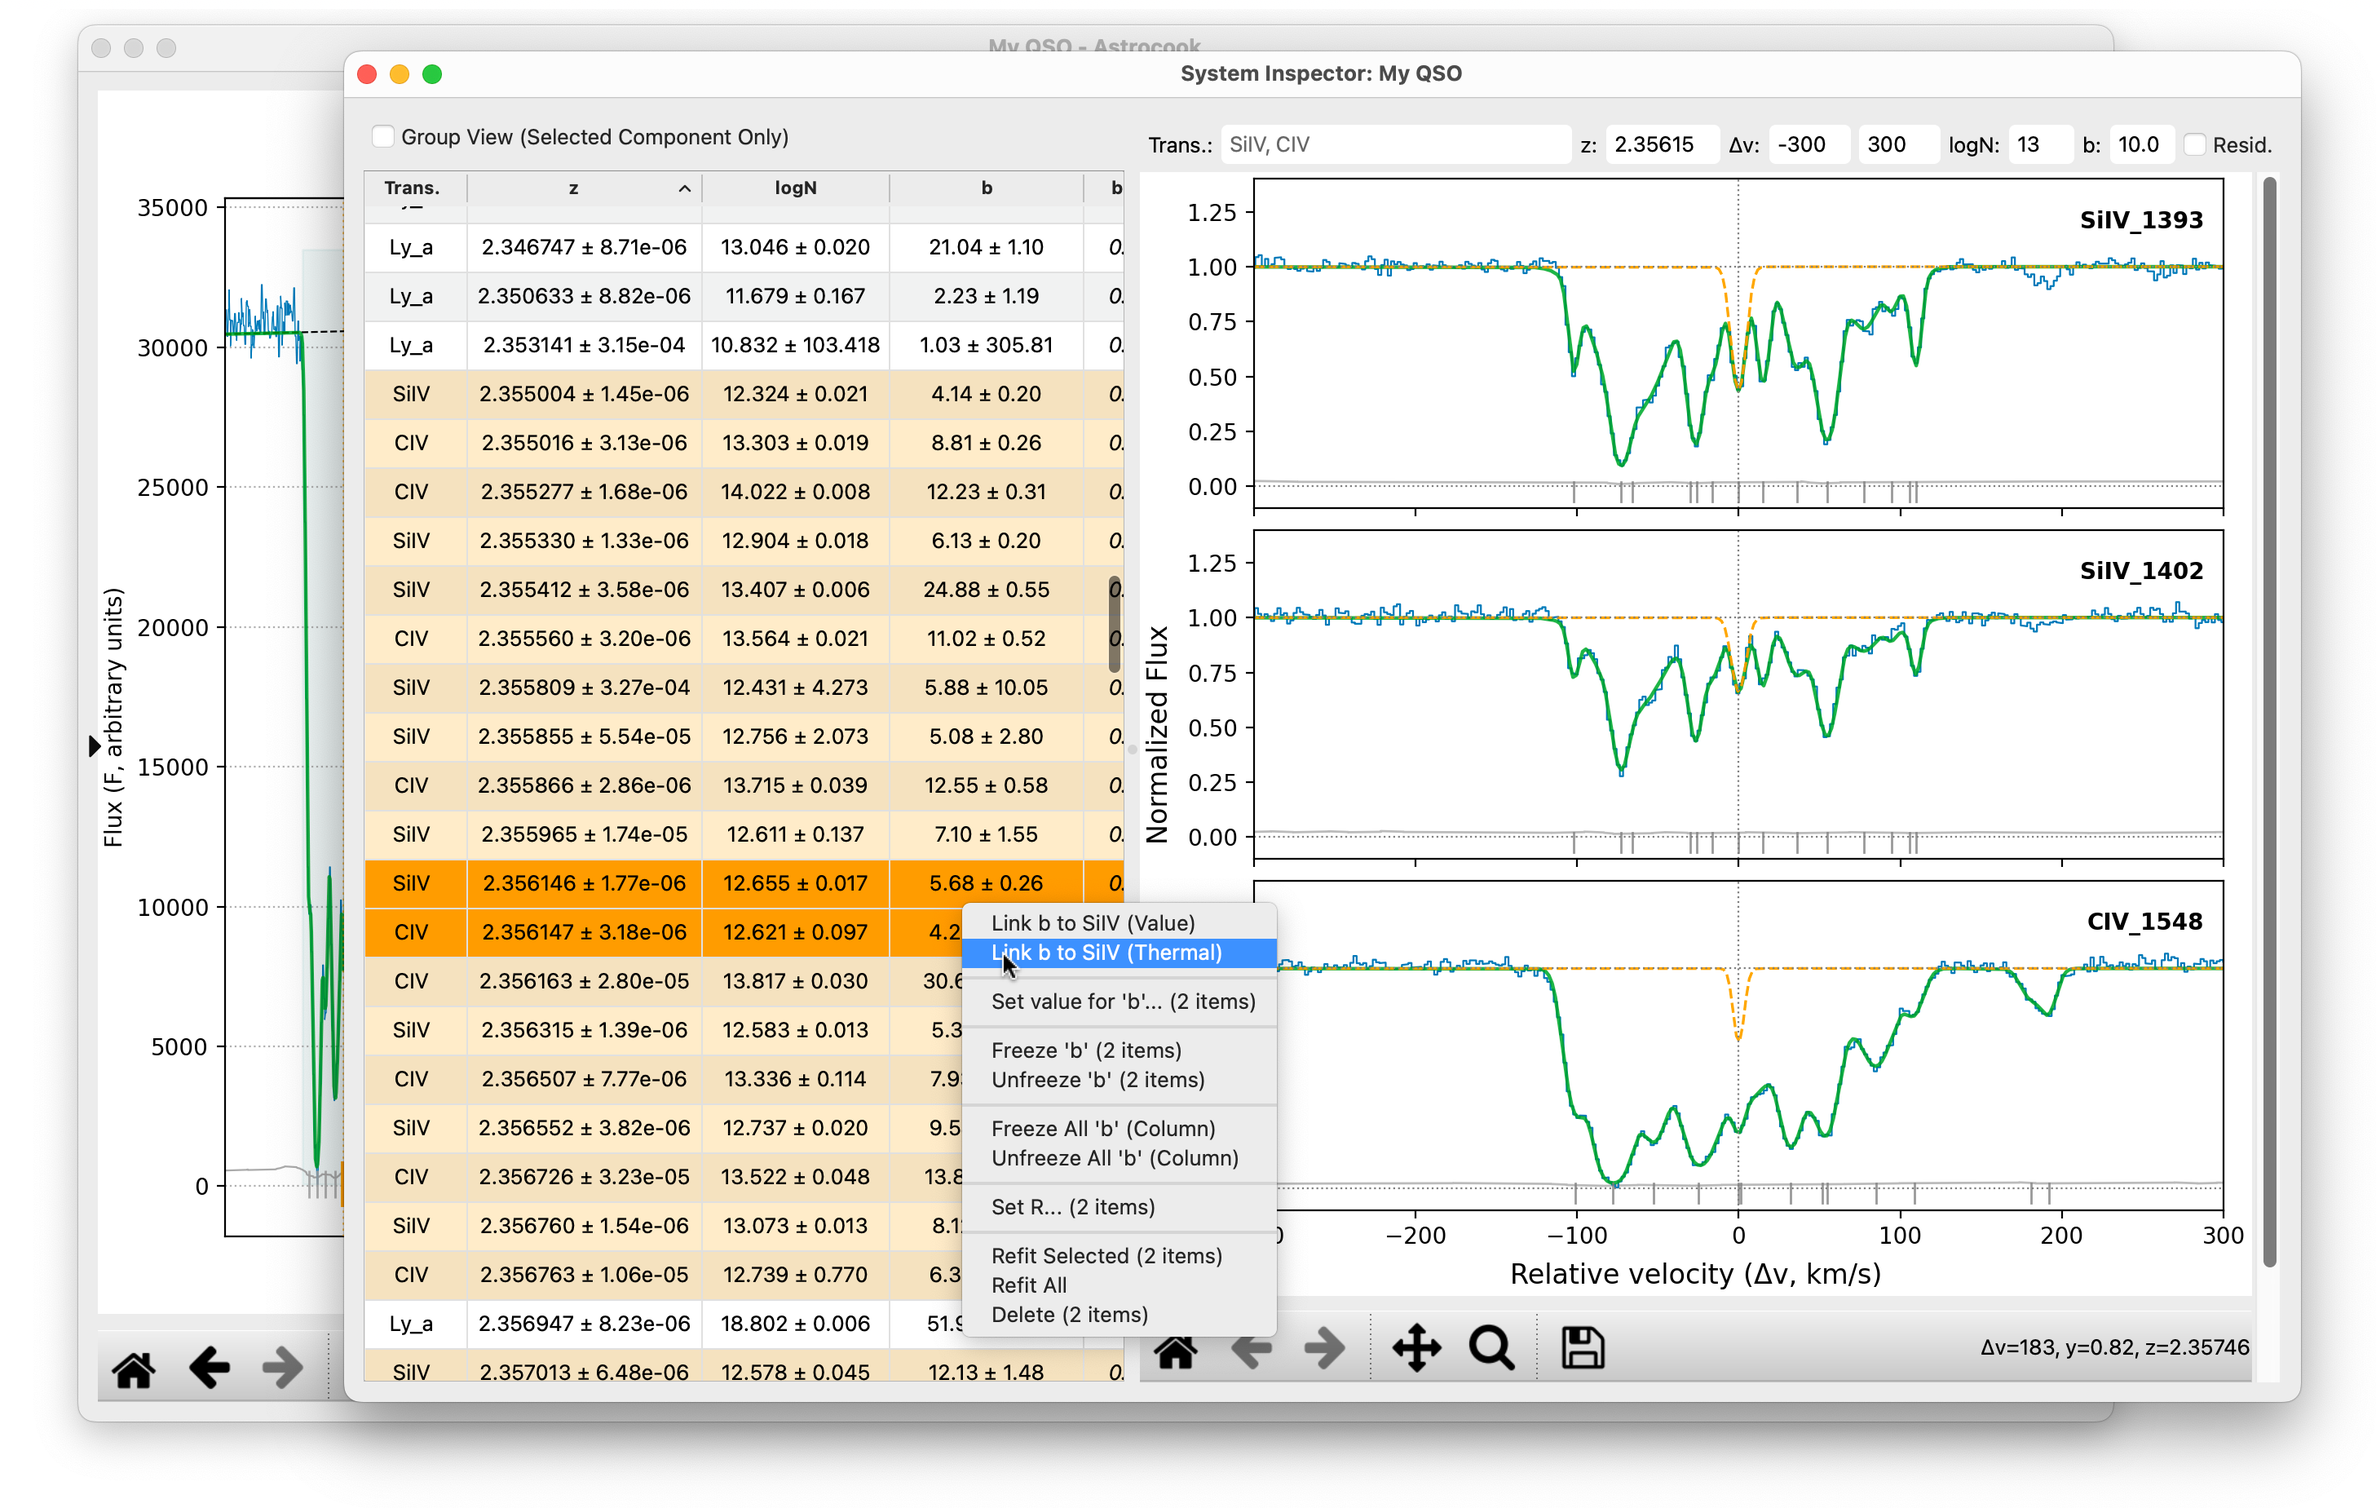
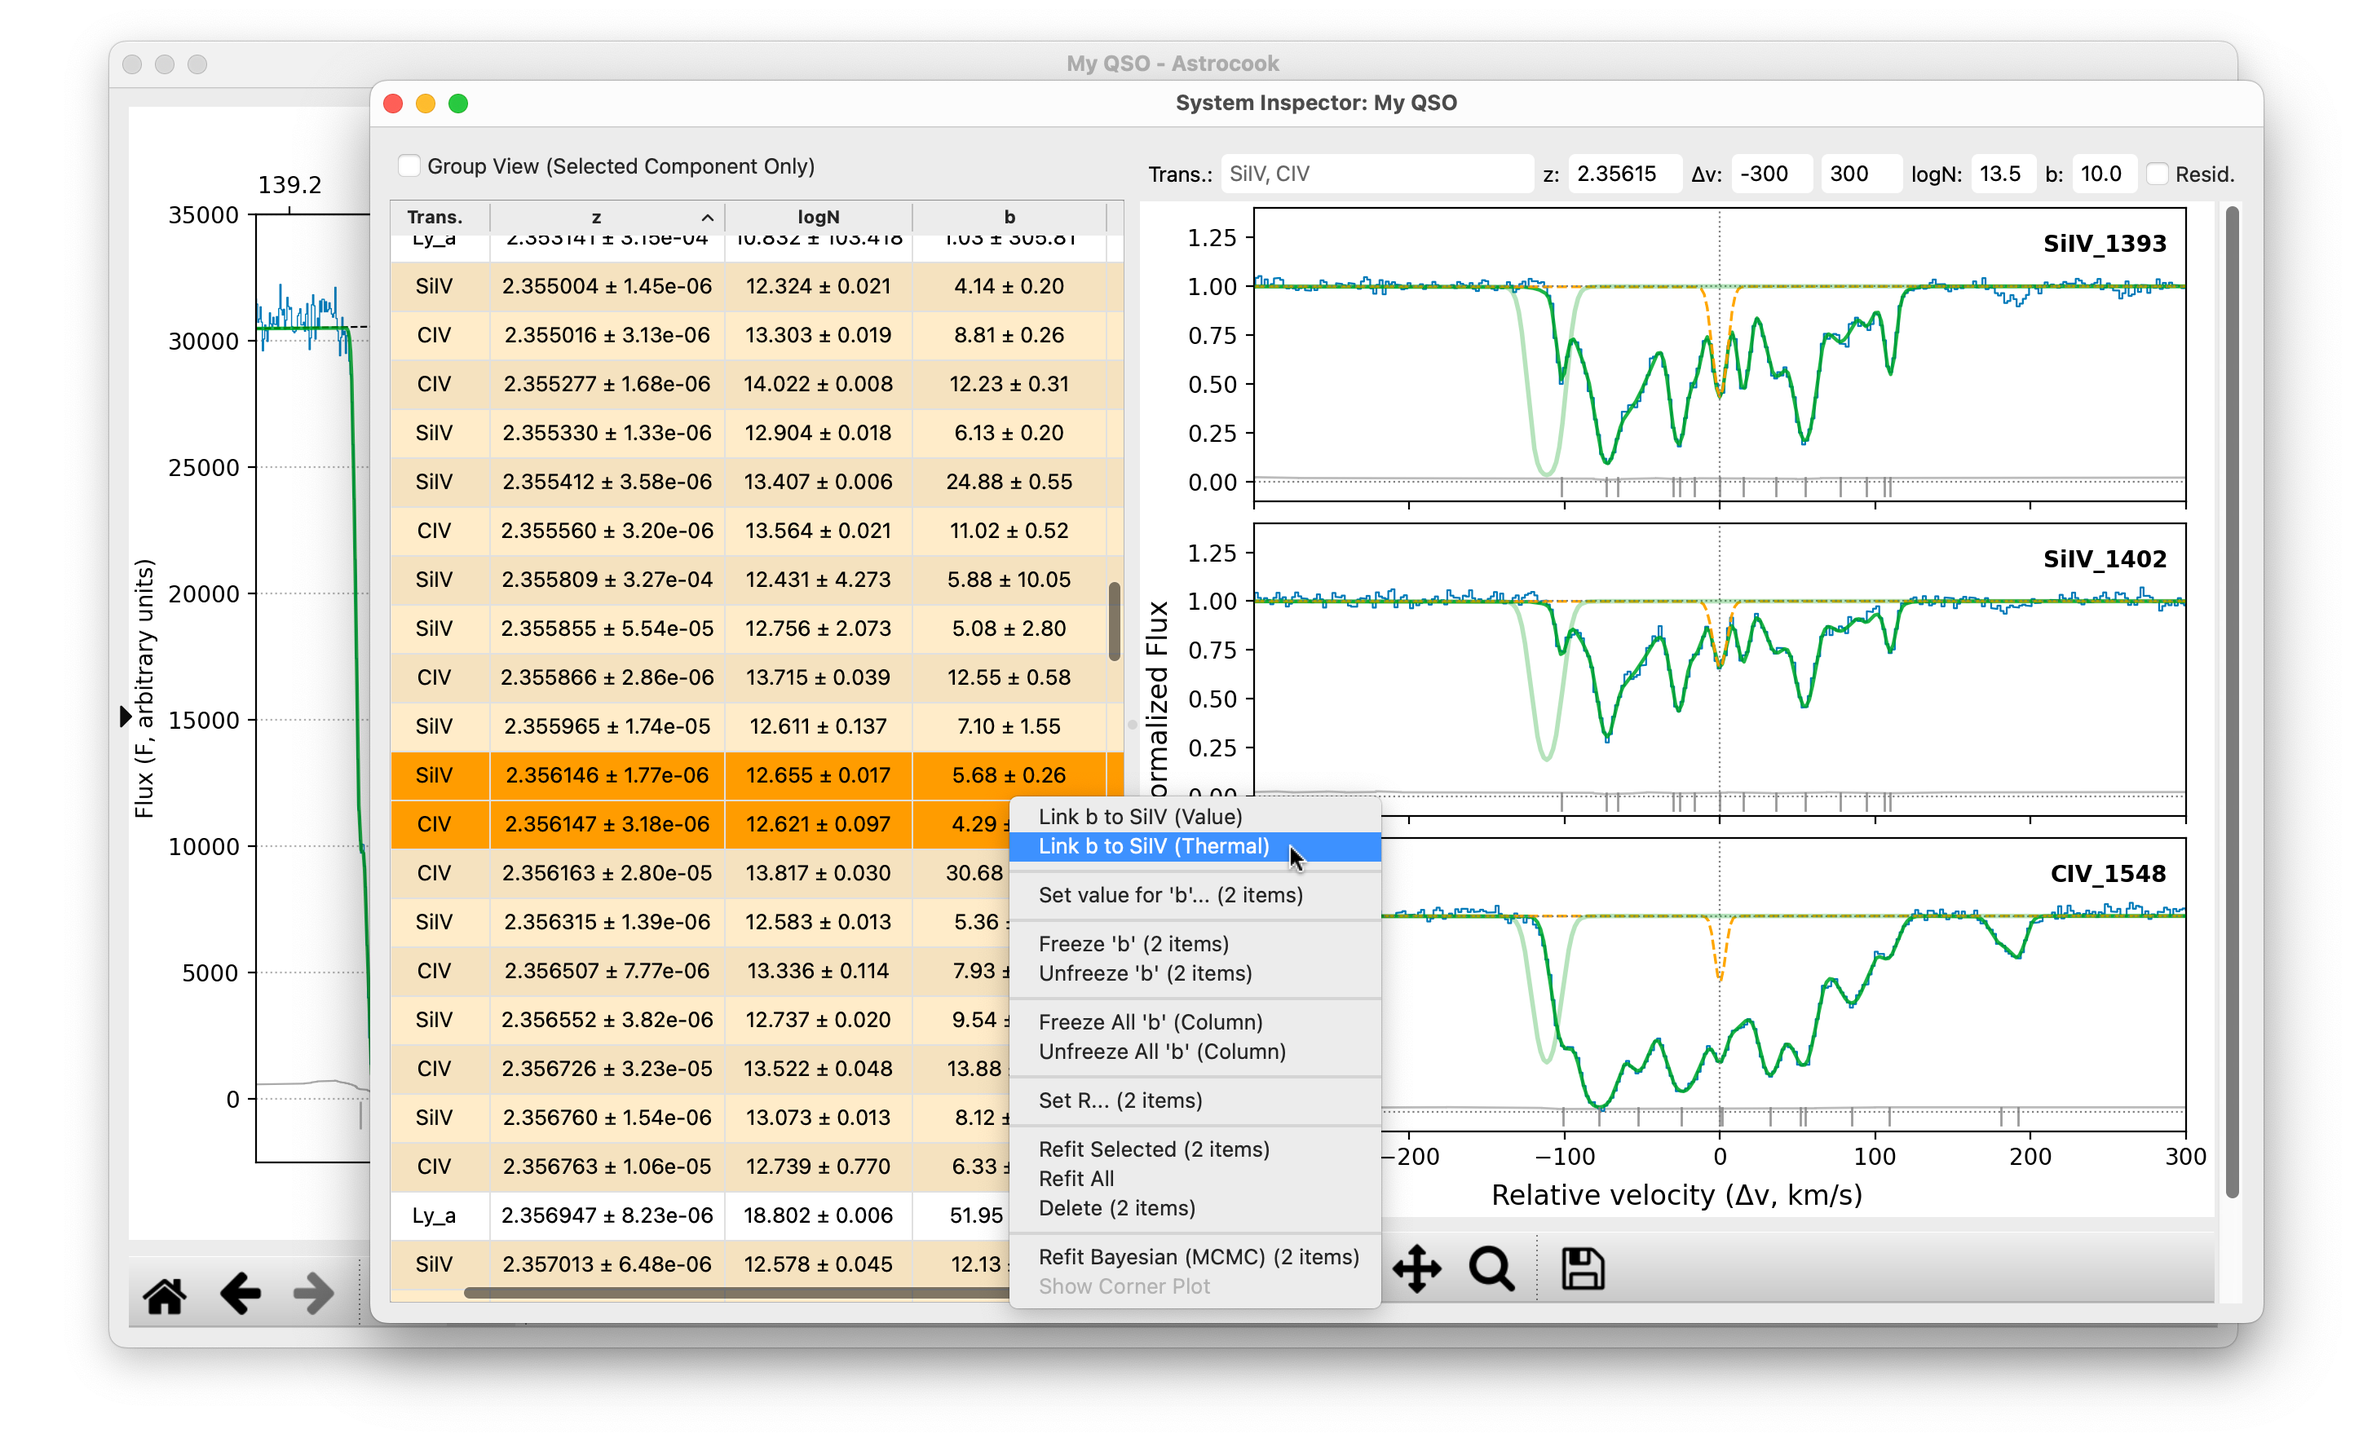
feature(docs): Added documentation for bayesian fitting (including docstrings)

Changed region(s): [[0.0309, 0.0, 0.99, 0.9888], [0.5569, 0.6798, 0.5878, 0.7107]]

diff --git a/astrocook/fitting/bayesian_fitter.py b/astrocook/fitting/bayesian_fitter.py
@@ -17,10 +17,20 @@ class BayesianVoigtFitter:
     """
     Bayesian engine for Voigt profile fitting.
     
-    This class wraps a VoigtFitterV2 instance to perform MCMC or Nested Sampling
-    using the same physical model and data preparation.
+    This class wraps a :class:`~astrocook.fitting.voigt_fitter.VoigtFitterV2`
+    instance to perform Markov Chain Monte Carlo (MCMC) or Nested Sampling
+    using the exact same physical model, constraints, and data preparation.
+
+    Parameters
+    ----------
+    spec : SpectrumV2
+        The spectral data to fit.
+    systs : SystemListV2
+        The system list containing the components to model.
+    z_window_kms : float, optional
+        Velocity window (km/s) around component centers to include in the fit mask.
+        Defaults to ``20.0``.
     """
-    
     def __init__(self, spec: Any, systs: Any, z_window_kms: float = 20.0):
         self.spec = spec
         self.systs = systs
@@ -37,7 +47,23 @@ class BayesianVoigtFitter:
         self.ndim = len(self.p_initial)
         
     def ln_likelihood(self, p_free: np.ndarray) -> float:
-        """Standard Gaussian Log-Likelihood."""
+        """
+        Compute the log-likelihood of a parameter vector.
+
+        Evaluates the standard Gaussian log-likelihood for the active fit region,
+        incorporating any penalty terms (e.g., Doppler parameter runaways) 
+        inherited from the frequentist fitter.
+
+        Parameters
+        ----------
+        p_free : np.ndarray
+            The vector of free parameters to evaluate.
+
+        Returns
+        -------
+        float
+            The computed log-likelihood, or ``-np.inf`` if evaluation fails.
+        """
         try:
             model = self.ctx['compute_model'](p_free)
             # Only use pixels in the dynamic mask
@@ -63,12 +89,42 @@ class BayesianVoigtFitter:
             return -np.inf
 
     def ln_prior(self, p_free: np.ndarray) -> float:
-        """Uniform priors based on physical bounds."""
+        """
+        Compute the log-prior probability of a parameter vector.
+
+        Applies a uniform flat prior defined by the physical boundaries of the
+        free parameters (e.g., column density between 10.0 and 23.0).
+
+        Parameters
+        ----------
+        p_free : np.ndarray
+            The vector of free parameters.
+
+        Returns
+        -------
+        float
+            ``0.0`` if the parameters are within physical bounds, ``-np.inf`` otherwise.
+        """
         if np.any(p_free < self.lower_bounds) or np.any(p_free > self.upper_bounds):
             return -np.inf
         return 0.0 # Log of 1/Volume is constant, so we can use 0 for simplicity
 
     def ln_posterior(self, p_free: np.ndarray) -> float:
+        """
+        Compute the total log-posterior probability.
+
+        Calculates the sum of the log-prior and log-likelihood.
+
+        Parameters
+        ----------
+        p_free : np.ndarray
+            The vector of free parameters.
+
+        Returns
+        -------
+        float
+            The log-posterior probability, or ``-np.inf`` if outside prior bounds.
+        """
         lp = self.ln_prior(p_free)
         if not np.isfinite(lp):
             return -np.inf
@@ -77,7 +133,35 @@ class BayesianVoigtFitter:
     def run_mcmc(self, nwalkers: int = 32, nsteps: int = 1000, 
                  burn_in: int = 200, progress: bool = True) -> Dict[str, Any]:
         """
-        Run MCMC using emcee.
+        Execute Markov Chain Monte Carlo (MCMC) sampling using ``emcee``.
+
+        Initializes walkers around the initial parameter guess and samples the
+        posterior distribution.
+
+        Parameters
+        ----------
+        nwalkers : int, optional
+            Number of MCMC walkers. Defaults to ``32``.
+        nsteps : int, optional
+            Number of sampling steps per walker. Defaults to ``1000``.
+        burn_in : int, optional
+            Number of initial steps to discard as burn-in. Defaults to ``200``.
+        progress : bool, optional
+            If True, pipes progress percentage to the logger. Defaults to ``True``.
+
+        Returns
+        -------
+        dict
+            A dictionary containing:
+            - ``'samples'``: The flattened, burn-in discarded chain (np.ndarray).
+            - ``'sampler'``: The raw ``emcee.EnsembleSampler`` object.
+            - ``'medians'``: The median values for each parameter (np.ndarray).
+            - ``'std'``: The standard deviations for each parameter (np.ndarray).
+
+        Raises
+        ------
+        ImportError
+            If the ``emcee`` package is not installed.
         """
         if emcee is None:
             raise ImportError("emcee is not installed. Please install it to use MCMC.")
@@ -122,7 +206,33 @@ class BayesianVoigtFitter:
 
     def run_nested(self, nlive: int = 250, progress: bool = True) -> Dict[str, Any]:
         """
-        Run Nested Sampling using dynesty.
+        Execute Nested Sampling using ``dynesty``.
+
+        Samples the parameter space to estimate both the posterior distribution
+        and the Bayesian evidence (log-Z).
+
+        Parameters
+        ----------
+        nlive : int, optional
+            Number of live points for the nested sampler. Defaults to ``250``.
+        progress : bool, optional
+            If True, pipes progress (dLogZ) to the logger. Defaults to ``True``.
+
+        Returns
+        -------
+        dict
+            A dictionary containing:
+            - ``'results'``: The raw ``dynesty`` results object.
+            - ``'logz'``: The estimated log-evidence.
+            - ``'logzerr'``: The error on the log-evidence.
+            - ``'samples'``: The posterior samples (np.ndarray).
+            - ``'medians'``: The median values for each parameter (np.ndarray).
+            - ``'std'``: The standard deviations for each parameter (np.ndarray).
+
+        Raises
+        ------
+        ImportError
+            If the ``dynesty`` package is not installed.
         """
         if dynesty is None:
             raise ImportError("dynesty is not installed. Please install it to use Nested Sampling.")
@@ -173,7 +283,21 @@ class BayesianVoigtFitter:
 
     def apply_results(self, res: Dict[str, Any]) -> Any:
         """
-        Apply Bayesian medians and uncertainties to the system list.
+        Apply Bayesian medians and uncertainties back to the system list.
+
+        Extracts the posterior medians and standard deviations, maps them back
+        to the full parameter vector, and updates the corresponding components
+        in the system list. Fixed or linked parameters maintain their prior state.
+
+        Parameters
+        ----------
+        res : dict
+            The results dictionary returned by :meth:`run_mcmc` or :meth:`run_nested`.
+
+        Returns
+        -------
+        SystemListV2
+            A new system list containing the updated parameters and Bayesian errors.
         """
         medians = res['medians'] if 'medians' in res else np.median(res['samples'], axis=0)
         stds = res['std'] if 'std' in res else np.std(res['samples'], axis=0)

diff --git a/astrocook/core/spectrum.py b/astrocook/core/spectrum.py
@@ -660,8 +660,21 @@ class SpectrumV2:
 
     def remove_meta_keys(self, keys: List[str]) -> 'SpectrumV2':
         """
-        Return a NEW SpectrumV2 with specified metadata keys removed.
-        Used to clean up temporary large objects (like JSON maps) before saving.
+        Remove specified keys from the metadata dictionary.
+
+        Returns a new SpectrumV2 instance with the specified metadata keys removed.
+        This is commonly used to clean up temporary large objects (like JSON
+        mapping dictionaries) before saving the session to disk.
+
+        Parameters
+        ----------
+        keys : list of str
+            A list of metadata keys to remove.
+
+        Returns
+        -------
+        SpectrumV2
+            A new instance with the cleaned metadata.
         """
         new_meta = deepcopy(self._data.meta)
         for k in keys:
@@ -1529,6 +1542,24 @@ class SpectrumV2:
     def equalize_to_reference(self, reference_spec: 'SpectrumV2', order: int = 0) -> 'SpectrumV2':
         """
         Scale this spectrum's flux to match a reference spectrum.
+
+        Computes a scaling polynomial by comparing the flux of this spectrum
+        to a reference spectrum, and applies this scaling to all flux-like
+        columns (y, dy, cont, model).
+
+        Parameters
+        ----------
+        reference_spec : SpectrumV2
+            The reference spectrum object to match.
+        order : int, optional
+            Polynomial order for the scaling model. ``0`` applies a constant
+            scalar factor, ``-1`` applies a spline interpolation, ``>0`` applies a
+            polynomial of the given order. Defaults to ``0``.
+
+        Returns
+        -------
+        SpectrumV2
+            A new instance with scaled flux.
         """
         from astrocook.core.spectrum_operations import compute_flux_scaling
         

diff --git a/astrocook/fitting/voigt_fitter.py b/astrocook/fitting/voigt_fitter.py
@@ -829,8 +829,22 @@ class VoigtFitterV2:
 
     def get_fit_context_data(self) -> Dict[str, Any]:
         """
-        Returns all data needed for an external likelihood calculation.
-        Call prepare_fit_context first.
+        Retrieve all internal data required for external likelihood calculations.
+
+        Extracts the sliced arrays, fit masks, and the model computation function
+        used by the frequentist fitter, allowing external engines (like Bayesian
+        samplers) to evaluate the exact same physical model. Must be called
+        after :meth:`prepare_fit_context`.
+
+        Returns
+        -------
+        dict
+            A dictionary containing:
+            - ``'x'``: The wavelength grid array.
+            - ``'y'``: The normalized flux array.
+            - ``'dy'``: The normalized flux error array.
+            - ``'mask'``: The boolean fit mask array.
+            - ``'compute_model'``: A callable function that takes a free parameter vector and returns the normalized model array.
         """
         return {
             'x': self._x_calc,

diff --git a/astrocook/fitting/voigt_model.py b/astrocook/fitting/voigt_model.py
@@ -374,8 +374,17 @@ class VoigtModelConstraintV2:
     
     def get_active_param_labels(self) -> List[str]:
         """
-        Return a list of labels for the free parameters.
-        Used for visualization (e.g., Corner Plots).
+        Return a list of formatting labels for all active free parameters.
+
+        Iterates through the components and parameter constraints to build
+        identifying strings (e.g., ``'z (1)'``, ``'logN (2)'``) for every
+        parameter that is currently free to vary during the fit.
+        Used primarily for visualization (e.g., Corner Plots).
+
+        Returns
+        -------
+        list of str
+            A list of parameter labels, matching the order of the ``p_free_vector``.
         """
         labels = []
         for i, (comp, param_name) in enumerate(self._get_component_param_iterator()):

diff --git a/docs/tutorials/absorption_systems.md b/docs/tutorials/absorption_systems.md
@@ -152,6 +152,27 @@ After manual edits, you often need to re-optimize the fit:
 :align: center
 ```
 
+### Bayesian Fitting (Experimental)
+
+Astrocook v2.0.0 introduces a prototype Bayesian fitting engine, allowing you to rigorously explore parameter space using MCMC (`emcee`). This is particularly useful for analyzing highly blended systems or determining robust parameter uncertainties.
+
+To run a Bayesian fit:
+1. Select the component(s) you wish to fit in the System List.
+2. **Right-click** to open the context menu and locate the **Bayesian Fitting** section.
+3. Select **Refit Bayesian (MCMC)**. 
+4. The sampling will run as a batch process, with progress tracked in the main window's progress bar.
+
+**Visualizing Posteriors (Corner Plots)**
+Once a Bayesian fit completes, Astrocook stores the posterior samples in the session metadata. You can visualize these directly:
+* Right-click a Bayesian-fitted component and select **Show Corner Plot**.
+* This opens a dedicated, scrollable window displaying the 1D histograms and 2D contours for all free parameters ($z$, $\log N$, $b$).
+* The plot title explicitly shows the median values along with their **asymmetrical $1\sigma$ uncertainties** (e.g., $14.500^{+0.123}_{-0.154}$).
+* **Auto-Refresh:** You can leave the Corner Plot window open on a second monitor. As you click through different Bayesian-fitted systems in the table, or run new fits, the plot will automatically update to reflect the active system.
+
+:::{note}
+While the corner plot displays the full asymmetric uncertainties, the main System List table simplifies these into a single, symmetric $1\sigma$ equivalent (derived from the standard deviation of the samples) to maintain compatibility with legacy data structures.
+:::
+
 ### Cleaning Results
 After running automated pipelines or performing manual fits, your model might contain artifacts such as noise spikes fitted as narrow lines, or continuum undulations fitted as broad, shallow features ("ghosts").
 
